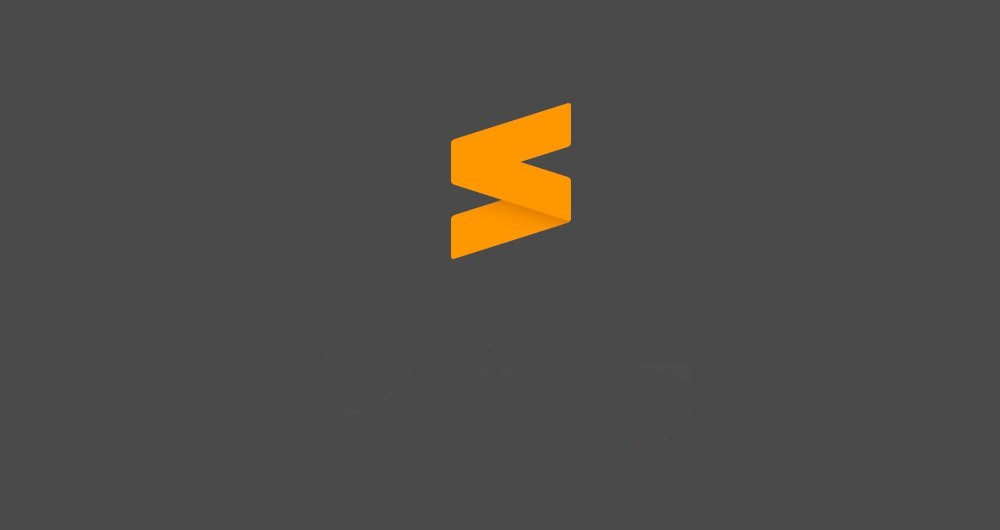
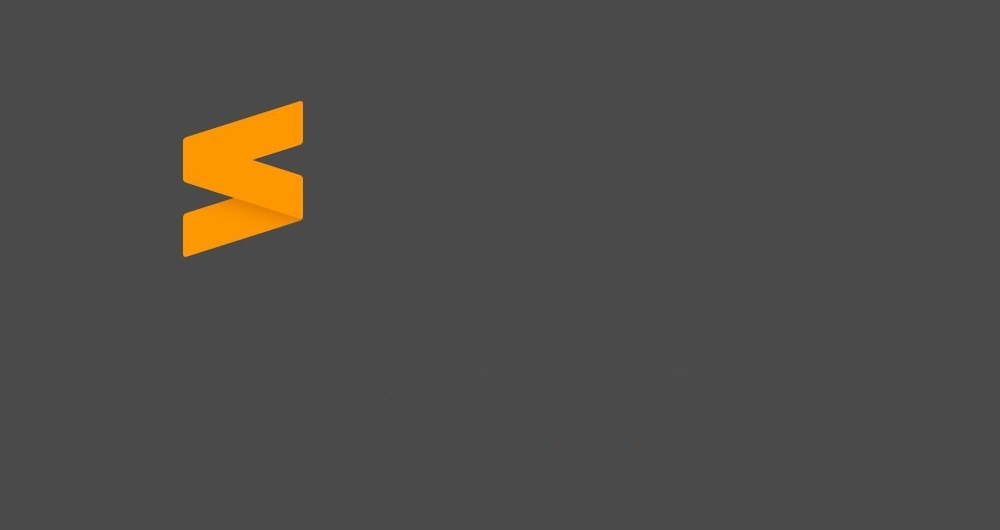
Adding sublime text page
ajout de la page sublime

Changed region(s): [[0.434, 0.1811, 0.589, 0.483], [0.155, 0.1811, 0.31, 0.483]]

diff --git a/ide2.css b/ide2.css
@@ -1,23 +1,151 @@
 body{
    background-image: url("img/sublimwp.jpg");
-   background-size: cover;
    background-attachment: fixed;
+   background-size: cover;
    margin:0;
+   display: flex;
+   justify-content: space-between;
  }
  main{
-   height: 100%;
-     display: flex;
-     justify-content: space-between;
-     align-items: center;
+   display: flex;
+   flex-direction: column;
+   margin-right: 20px;
  }
- .description{
-  margin-left: 80px;
+ menu{
+   margin: 0px;
+   background-color: rgba(255, 151, 0, 0.1);
+   padding: 10px;
+   color: #FF9700;
+   font-family: Consolas,monaco,monospace;
+ }
+ menu ul{
+  display: flex;
+  flex-direction: column;
+  list-style: none;
+ }
+ menu li{
+  padding: 10px;
+ }
+ menu a:link{
+  color: #FF9700;
+  text-decoration: none;
+  font-family: Consolas,monaco,monospace;
+ }
+ menu a:visited {
+  color: #FF9700;
+  font-family: Consolas,monaco,monospace;
+}
+menu a:hover {
+ color: white;
+ font-family: Consolas,monaco,monospace;
+}
+
+menu a:active {
+  color: #A155B8;
+  font-family: Consolas,monaco,monospace;
+}
+ .screenshots{
+  margin-top: 20px;
   background-color: rgba(255,255,255,0.1);
   padding: 10px;
-  max-width: 400px;
-  max-height: 400px;
+  max-width: 800px;
   border: solid;
-  border-color: #129A76;
+  border-color: #FF9700;
+  border-radius: 10px;
+  color: white;
+  -webkit-transform: scale(1);
+  transform: scale(1);
+  -webkit-transition: .5s ease-in-out;
+  transition: .5s ease-in-out;
+ }
+.screenshots p{
+  font-size: 15px;
+ }
+.screenshots h1{
+  font-size: 30px;
+ }
+.screenshots img{
+  border-radius: 10px;
+  width: 200px;
+  height: 100px;
+  -webkit-transform: scale(1);
+  transform: scale(1);
+  -webkit-transition: .3s ease-in-out;
+  transition: .3s ease-in-out;
+}
+.screenshots img:hover{
+  -webkit-transform: scale(1.3);
+  transform: scale(1.3);
+}
+.social{
+  margin-top: 20px;
+  background-color: rgba(255,255,255,0.1);
+  padding: 10px;
+  max-width: 800px;
+  border: solid;
+  border-color: #FF9700;
+  border-radius: 10px;
+  color: white;
+  -webkit-transform: scale(1);
+  transform: scale(1);
+  -webkit-transition: .5s ease-in-out;
+  transition: .5s ease-in-out;
+ }
+.social p{
+  font-size: 15px;
+ }
+.social h1{
+  font-size: 30px;
+ }
+.social img{
+  border-radius: 10px;
+  width: 75px;
+  height: 75px;
+-webkit-transition: all 0.5s ease;
+  transition: all 0.5s ease;
+}
+.social img:hover{
+ -webkit-transform: rotate(-15deg);
+  transform: rotate(-15deg);
+}
+.download{
+  margin-top: 20px;
+  background-color: rgba(255,255,255,0.1);
+  padding: 10px;
+  max-width: 800px;
+  border: solid;
+  border-color: #FF9700;
+  border-radius: 10px;
+  color: white;
+  -webkit-transform: scale(1);
+  transform: scale(1);
+  -webkit-transition: .5s ease-in-out;
+  transition: .5s ease-in-out;
+ }
+.download p{
+  font-size: 15px;
+ }
+.download h1{
+  font-size: 30px;
+ }
+.download img{
+  border-radius: 10px;
+  width: 75px;
+  height: 75px;
+  -webkit-transition: all 0.5s ease;
+  transition: all 0.5s ease;
+}
+.download img:hover{
+   -webkit-transform: rotate(-15deg);
+  transform: rotate(-15deg);
+}
+ .description{
+  margin-top: 20px;
+  background-color: rgba(255,255,255,0.1);
+  padding: 10px;
+  max-width: 800px;
+  border: solid;
+  border-color: #FF9700;
   border-radius: 10px;
   color: white;
   -webkit-transform: scale(1);
@@ -31,36 +159,4 @@ body{
   .description h1{
   font-size: 30px;
  }
- .ide{
-  margin-right: 120px;
-    background-color: rgba(255,255,255,0.1);
-  padding: 10px;
-  max-width: 400px;
-  max-height: 400px;
-  border: solid;
-  border-color: #129A76;
-  border-radius: 10px;
-  color: white;
-  -webkit-transform: scale(1);
-  transform: scale(1);
-  -webkit-transition: .5s ease-in-out;
-  transition: .5s ease-in-out;
-}
- .ide img{
-   width: 150px;
-   height: 150px;
-   -webkit-transform: scale(1);
-  transform: scale(1);
-  -webkit-transition: .3s ease-in-out;
-  transition: .3s ease-in-out;
- }
- .ide img:hover{
- -webkit-transform: scale(1.3);
-  transform: scale(1.3);
- }
-  .ide p{
-  font-size: 15px;
- }
-  .ide h1{
-  font-size: 30px;
- }
+ 

diff --git a/ide2.html b/ide2.html
@@ -4,19 +4,39 @@
    <link rel="stylesheet" href="ide2.css"> 
 </head>
 <body>
-<main>
-  <section class="description">
-    <h1>What's Sublim Text ?</h1>
-    <p>En programmation informatique, un environnement de développement est un ensemble d'outils qui permet d'augmenter la productivité des programmeurs qui développent des logiciels. Il comporte un éditeur de texte destiné à la programmation, des fonctions qui permettent, par pression sur un bouton, de démarrer le compilateur ou l'éditeur de liens ainsi qu'un débogueur en ligne, qui permet d'exécuter ligne par ligne le programme en cours de construction. Certains environnements sont dédiés à un langage de programmation en particulier.
-        <br>
-        <br>
-        Dans un environnement de développement « intégré » (abrégé EDI en français ou IDE en anglais, pour integrated development environment), les outils sont prévus pour être utilisés ensemble (le produit d'un outil peut servir de matière première pour un autre outil). Les outils peuvent être intégrés dès le départ, c'est-à-dire qu'ils sont construits dans le but d'être utilisés ensemble. Il peut aussi s'agir d'un ensemble d'outils développés sans lien entre eux et intégrés a posteriori.</p>
-  </section>
-  <section class="ide">
-    <h1>My Top IDE</h1>
-    <p><a href="ide1.html"><img src="img/vs.png"></a>&nbsp;&nbsp;<a href="ide2.html"><img src="img/sublime.png"></a></p>
-    <p><a href="ide3.html"><img src="img/eclipse.png"></a>&nbsp;&nbsp;<a href="ide4.html"><img src="img/netbeans.png"></a></p>
-  </section>
+  <menu>
+    <ul>
+      <li><a href="ide.html"  title="Accueil">Accueil</a></li>
+      <li><a href="ide1.html" title="Visual Studio">Visual Studio</a></li>
+      <li><a href="ide2.html" title="Sublime Text">Sublime Text</a></li>
+      <li><a href="ide3.html" title="Eclipse">Eclipse</a></li>
+      <li><a href="ide4.html" title="NetBeans">NetBeans</a></li>
+    </ul>
+  </menu>
+  <main>
+    <article class="description">
+    <h1>What's Visual Studio ?</h1>
+    <p>Microsoft Visual Studio est une suite de logiciels de développement pour Windows et mac OS conçue par Microsoft. La dernière version s'appelle Visual Studio 2019.
+    </p><p>
+    Visual Studio est un ensemble complet d'outils de développement permettant de générer des applications web ASP.NET, des services web XML, des applications bureautiques et des applications mobiles. Visual Basic, Visual C++, Visual C# utilisent tous le même environnement de développement intégré (IDE), qui leur permet de partager des outils et facilite la création de solutions faisant appel à plusieurs langages. Par ailleurs, ces langages permettent de mieux tirer parti des fonctionnalités du framework .NET, qui fournit un accès à des technologies clés simplifiant le développement d'applications web ASP et de services web XML grâce à Visual Web Developer.
+    </p><p>
+    Durant sa conférence Connect() 2016, Microsoft a annoncé le portage de Visual Studio sur macOS, le système d'exploitation d'Apple.
+    </p>
+  </article>
+  <article class="screenshots">
+    <h1>Screen Shots</h1>
+     <a href="img/vs1.png" target="_blank"><img src="img/vs1.png"></a>&nbsp;&nbsp;<a href="img/vs2.png" target="_blank"><img src="img/vs2.png"></a>
+     <br>
+     <a href="img/vs3.png" target="_blank"><img src="img/vs3.png"></a>&nbsp;&nbsp;<a href="img/vs4.gif" target="_blank"><img src="img/vs4.gif"></a>
+  </article>
+  <article class="social">
+   <h1>Social Links</h1>
+   <p><a href="https://www.instagram.com/microsoftvisualstudio/" target="_blank"><img src="img/insta.png"></a>&nbsp;&nbsp;<a href="https://fr-fr.facebook.com/visualstudio/" target="_blank"><img src="img/facebook.png"></a>&nbsp;&nbsp;<a href="https://twitter.com/visualstudio?lang=fr" target="_blank"><img src="img/twitter.png"></a></p>
+  </article>
+  <article class="download">
+   <h1>Download Links</h1>
+   <p><a href="https://visualstudio.microsoft.com/fr/downloads/" target="_blank"><img src="img/vsdl.png"></a></p>
+  </article>
 </main>
 </body>
 </html>

diff --git a/ide1.css b/ide1.css
@@ -45,10 +45,7 @@ menu a:active {
   color: #A155B8;
   font-family: Consolas,monaco,monospace;
 }
- footer{
-  margin-top: 100px;
 
- }
  .gauche{
    max-width: 500px;
    margin-left: 20px;

diff --git a/ide1.html b/ide1.html
@@ -58,9 +58,5 @@
   </article>
   </section>
 </main>
-
-<footer>
-  Test footer
-</footer>
 </body>
 </html>
